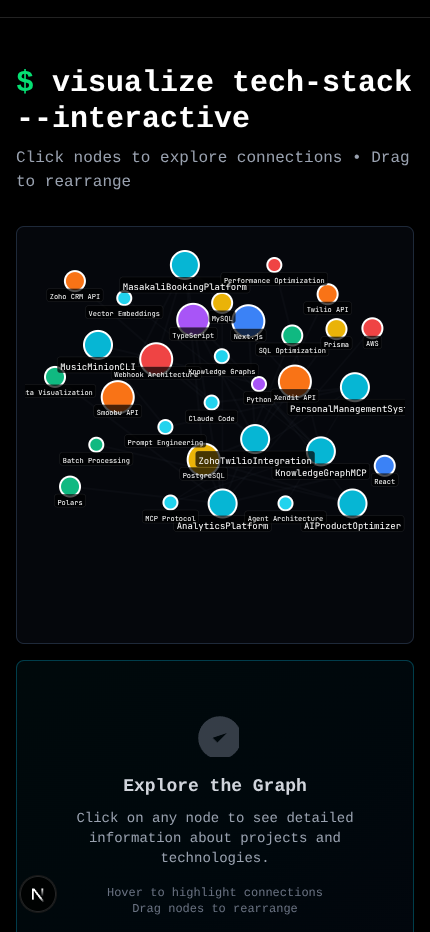
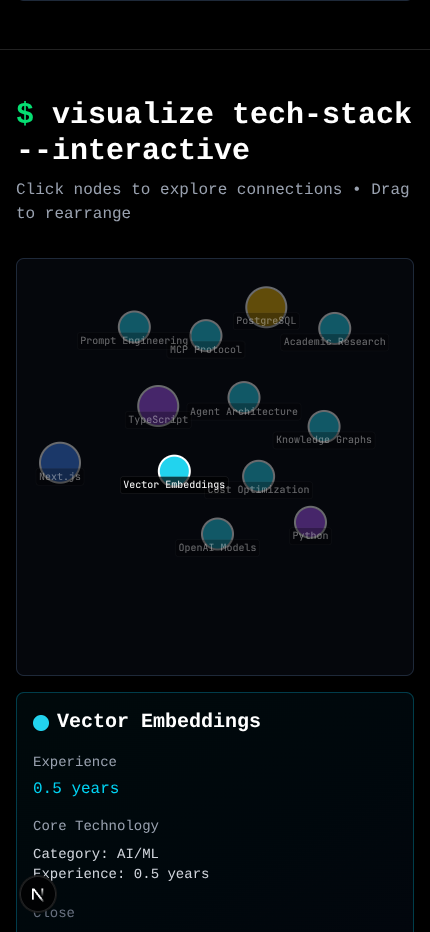
Enhance TechStackVisualization component for mobile optimization. Implement mobile-specific data handling, prioritizing key skills for hiring managers. Adjust layout and simulation parameters for improved visual clarity on smaller screens. Update core skills filter to reflect current industry trends

diff --git a/src/components/TechStackVisualization.tsx b/src/components/TechStackVisualization.tsx
@@ -14,9 +14,35 @@ const TechStackVisualization = () => {
   const [showAllSkills, setShowAllSkills] = useState(false);
 
   // Data structure - memoized to prevent useEffect re-runs
-  const nodes = useMemo(() => techStackNodes, []);
+  const allNodes = useMemo(() => techStackNodes, []);
+  const allLinks = useMemo(() => techStackLinks, []);
 
-  const links = useMemo(() => techStackLinks, []);
+  // Create mobile-optimized data (skills only, most important ones)
+  const mobileNodes = useMemo(() => {
+    const skillNodes = allNodes.filter(node => node.type === 'skill');
+
+    // Prioritize AI/ML skills and core technologies for hiring managers
+    const getSkillPriority = (skill: any) => {
+      // AI/ML skills get highest priority
+      if (skill.category === 'AI/ML') return 1000 + (skill.experience || 0);
+      // Core languages get high priority
+      if (['TypeScript', 'Python', 'JavaScript'].includes(skill.name)) return 900 + (skill.experience || 0);
+      // Modern frameworks get good priority
+      if (['React', 'Next.js', 'PostgreSQL'].includes(skill.name)) return 800 + (skill.experience || 0);
+      // Everything else by experience
+      return (skill.experience || 0) * 10;
+    };
+
+    const topSkills = skillNodes
+      .sort((a, b) => getSkillPriority(b) - getSkillPriority(a))
+      .slice(0, 12); // Show only top 12 skills
+    return topSkills;
+  }, [allNodes]);
+
+  const mobileLinks = useMemo(() => {
+    // No links on mobile for cleaner visualization
+    return [];
+  }, []);
 
   useEffect(() => {
     if (!svgRef.current) return;
@@ -26,13 +52,16 @@ const TechStackVisualization = () => {
 
     const containerWidth = svgRef.current.parentElement?.offsetWidth || 800;
     const width = Math.min(containerWidth, 800);
-    const height = Math.min(width * 0.75, 600); // Maintain aspect ratio
-
     // Detect mobile (screen width < 640px)
     const isMobile = containerWidth < 640;
+    const height = isMobile ? Math.min(containerWidth * 1.2, 500) : Math.min(width * 0.75, 600); // More height on mobile
+
+    // Use different data sets for mobile vs desktop
+    const nodes = isMobile ? mobileNodes : allNodes;
+    const links = isMobile ? mobileLinks : allLinks;
 
     const margin = isMobile
-      ? { top: 10, right: 10, bottom: 10, left: 10 }
+      ? { top: 15, right: 15, bottom: 15, left: 15 }
       : { top: 20, right: 20, bottom: 20, left: 20 };
 
     svg.attr('width', width).attr('height', height);
@@ -58,40 +87,38 @@ const TechStackVisualization = () => {
     // Initialize nodes with random positions spread across the area
     const centerX = (width - margin.left - margin.right) / 2;
     const centerY = (height - margin.top - margin.bottom) / 2;
-    // Use more space on mobile for tighter packing
-    const spreadRadius = Math.min(centerX, centerY) * (isMobile ? 0.8 : 0.6);
     
     nodes.forEach((node: any) => {
-      const angle = Math.random() * 2 * Math.PI;
-      const radius = Math.random() * spreadRadius;
-      node.x = centerX + Math.cos(angle) * radius;
-      node.y = centerY + Math.sin(angle) * radius;
+      // Use rectangular distribution instead of circular to better fill vertical space
+      const maxX = width - margin.left - margin.right - 40;
+      const maxY = height - margin.top - margin.bottom - 30;
+      node.x = margin.left + 40 + Math.random() * (maxX - 80);
+      node.y = margin.top + 30 + Math.random() * (maxY - 60);
     });
 
-    // Create simulation with stable, minimal movement
+    // Create simulation with better spreading
     const simulation = d3.forceSimulation(nodes as d3.SimulationNodeDatum[])
-      .force('link', d3.forceLink(links).id((d: any) => d.id).strength(0.1)) // Much weaker links
-      .force('charge', d3.forceManyBody().strength(isMobile ? -150 : -300)) // Less repulsion on mobile
-      .force('center', d3.forceCenter(centerX, centerY).strength(0.1)) // Stable centering
+      .force('link', links.length > 0 ? d3.forceLink(links).id((d: any) => d.id).strength(0.1) : null) // No links on mobile
+      .force('charge', d3.forceManyBody().strength(isMobile ? -200 : -800)) // Much stronger repulsion for better spreading
+      .force('x', d3.forceX(centerX).strength(0.03)) // Gentle X centering only - no Y centering to allow full vertical spread
       .force('collision', d3.forceCollide().radius((d: any) => {
-        // Smaller collision radius on mobile for tighter packing
         if (isMobile) {
-          const baseRadius = d.type === 'project' ? 25 : 18;
-          const textLength = d.name.length * 1.8;
-          return Math.max(baseRadius, textLength);
-        } else {
-          const baseRadius = d.type === 'project' ? 45 : 35;
+          // Increased collision radius on mobile to force more spreading
           const textLength = d.name.length * 2.5;
+          return Math.max(32, textLength);
+        } else {
+          const baseRadius = d.type === 'project' ? 55 : 45;
+          const textLength = d.name.length * 3;
           return Math.max(baseRadius, textLength);
         }
-      }))
+      }).strength(0.9))
       .velocityDecay(0.9) // Much slower movement for stability
       .alphaDecay(0.05) // Faster settling to prevent continuous movement
       .alphaMin(0.001) // Stop simulation sooner
       .stop(); // Don't auto-start - we'll control it
 
-    // Run simulation for initial positioning, then stop
-    for (let i = 0; i < 300; ++i) simulation.tick();
+    // Run simulation for initial positioning, then stop - more iterations to settle into full space
+    for (let i = 0; i < 500; ++i) simulation.tick();
 
     // Create links
     const link = container.append('g')
@@ -109,8 +136,8 @@ const TechStackVisualization = () => {
       .enter().append('circle')
       .attr('r', (d) => {
         if (isMobile) {
-          if (d.type === 'project') return 14;
-          return 6 + (d.experience || 1) * 2;
+          // More uniform sizing on mobile, less dramatic experience differences
+          return 15 + (d.experience || 1) * 1;
         } else {
           if (d.type === 'project') return 20;
           return 8 + (d.experience || 1) * 3;
@@ -147,7 +174,8 @@ const TechStackVisualization = () => {
       .text(d => d.name)
       .attr('font-size', (d) => {
         if (isMobile) {
-          return d.type === 'project' ? '9px' : '7px';
+          // All text same size on mobile for consistency
+          return '10px';
         } else {
           return d.type === 'project' ? '10px' : '8px';
         }
@@ -157,7 +185,8 @@ const TechStackVisualization = () => {
       .attr('text-anchor', 'middle')
       .attr('dy', (d) => {
         if (isMobile) {
-          return d.type === 'project' ? 25 : 18;
+          // Consistent spacing on mobile
+          return 17;
         } else {
           return d.type === 'project' ? 38 : 28;
         }
@@ -178,7 +207,7 @@ const TechStackVisualization = () => {
       .attr('x', (d: any) => -d.textWidth / 2 - 3)
       .attr('y', (d: any) => {
         const yOffset = isMobile
-          ? (d.type === 'project' ? 20 : 14)
+          ? 14
           : (d.type === 'project' ? 30 : 20);
         return yOffset - d.textHeight / 2 - 2;
       });
@@ -301,11 +330,14 @@ const TechStackVisualization = () => {
 
     // Update positions on simulation tick with bounds checking
     simulation.on('tick', () => {
-      // Keep nodes within bounds with extra padding for labels
+      // Keep nodes within bounds accounting for text labels that extend below nodes
       nodes.forEach((d: any) => {
-        const padding = isMobile ? 20 : 50; // Less padding on mobile
-        d.x = Math.max(padding, Math.min(width - margin.left - margin.right - padding, d.x));
-        d.y = Math.max(padding, Math.min(height - margin.top - margin.bottom - padding, d.y));
+        const horizontalPadding = isMobile ? 20 : 35; // Horizontal padding for text
+        const topPadding = isMobile ? 15 : 20; // Top padding
+        const bottomPadding = isMobile ? 25 : 35; // Extra bottom padding for text labels
+
+        d.x = Math.max(horizontalPadding, Math.min(width - margin.left - margin.right - horizontalPadding, d.x));
+        d.y = Math.max(topPadding, Math.min(height - margin.top - margin.bottom - bottomPadding, d.y));
       });
 
       link
@@ -326,7 +358,7 @@ const TechStackVisualization = () => {
         .attr('x', (d: any) => d.x - d.textWidth / 2 - 3)
         .attr('y', (d: any) => {
           const yOffset = isMobile
-            ? (d.type === 'project' ? 20 : 14)
+            ? 14
             : (d.type === 'project' ? 30 : 20);
           return d.y + yOffset - d.textHeight / 2 - 2;
         });
@@ -337,15 +369,20 @@ const TechStackVisualization = () => {
       simulation.stop();
     };
 
-  }, [selectedNode, nodes, links]);
+  }, [selectedNode, allNodes, allLinks, mobileNodes, mobileLinks]);
 
   const getNodeInfo = (nodeId: string) => {
-    const node = nodes.find(n => n.id === nodeId);
+    // Search in the appropriate dataset based on current view
+    const isMobile = (svgRef.current?.parentElement?.offsetWidth || 800) < 640;
+    const currentNodes = isMobile ? mobileNodes : allNodes;
+    const currentLinks = isMobile ? mobileLinks : allLinks;
+
+    const node = currentNodes.find(n => n.id === nodeId);
     if (!node) return null;
 
     if (node.type === 'project') {
       // Get connected skills from visualization
-      const connectedSkills = links
+      const connectedSkills = currentLinks
         .filter(link =>
           (typeof link.source === 'string' ? link.source : (link.source as Node).id) === nodeId ||
           (typeof link.target === 'string' ? link.target : (link.target as Node).id) === nodeId
@@ -354,7 +391,7 @@ const TechStackVisualization = () => {
           const targetId = (typeof link.source === 'string' ? link.source : (link.source as Node).id) === nodeId
             ? (typeof link.target === 'string' ? link.target : (link.target as Node).id)
             : (typeof link.source === 'string' ? link.source : (link.source as Node).id);
-          return nodes.find(n => n.id === targetId);
+          return currentNodes.find(n => n.id === targetId);
         })
         .filter(Boolean);
 
@@ -369,7 +406,8 @@ const TechStackVisualization = () => {
         project
       };
     } else {
-      const connectedProjects = links
+      // For skills on mobile, show no connections since we removed projects
+      const connectedProjects = isMobile ? [] : currentLinks
         .filter(link =>
           (typeof link.source === 'string' ? link.source : (link.source as Node).id) === nodeId ||
           (typeof link.target === 'string' ? link.target : (link.target as Node).id) === nodeId
@@ -378,7 +416,7 @@ const TechStackVisualization = () => {
           const targetId = (typeof link.source === 'string' ? link.source : (link.source as Node).id) === nodeId
             ? (typeof link.target === 'string' ? link.target : (link.target as Node).id)
             : (typeof link.source === 'string' ? link.source : (link.source as Node).id);
-          return nodes.find(n => n.id === targetId);
+          return currentNodes.find(n => n.id === targetId);
         })
         .filter(Boolean);
 
@@ -390,6 +428,9 @@ const TechStackVisualization = () => {
   };
 
   const selectedNodeInfo = selectedNode ? getNodeInfo(selectedNode) : null;
+
+  // Get container width for mobile detection in JSX
+  const containerWidth = svgRef.current?.parentElement?.offsetWidth || 800;
 
   return (
     <TooltipProvider>
@@ -441,7 +482,7 @@ const TechStackVisualization = () => {
                 <div className="mb-4">
                   <div className="flex items-center justify-between mb-2">
                     <div className="text-sm text-gray-400">
-                      {selectedNodeInfo.type === 'project' ? 'Technologies Used' : 'Used In Projects'}
+                      {selectedNodeInfo.type === 'project' ? 'Technologies Used' : (containerWidth < 640 ? 'Core Technology' : 'Used In Projects')}
                     </div>
                     {selectedNodeInfo.type === 'project' && (selectedNodeInfo as any).allSkills?.length > 0 && (
                       <button
@@ -484,12 +525,19 @@ const TechStackVisualization = () => {
                         ))
                       )
                     ) : (
-                      // Show connected projects for skill nodes
-                      (selectedNodeInfo as any).connectedProjects?.map((project: any) => (
-                        <div key={project.id} className="text-sm text-gray-300 font-mono">
-                          • {project.name}
+                      // Show connected projects for skill nodes (or category on mobile)
+                      containerWidth < 640 ? (
+                        <div className="text-sm text-gray-300 font-mono">
+                          Category: {selectedNodeInfo.category}<br/>
+                          Experience: {selectedNodeInfo.experience} years
                         </div>
-                      ))
+                      ) : (
+                        (selectedNodeInfo as any).connectedProjects?.map((project: any) => (
+                          <div key={project.id} className="text-sm text-gray-300 font-mono">
+                            • {project.name}
+                          </div>
+                        ))
+                      )
                     )}
                   </div>
                 </div>

diff --git a/src/lib/techStack.ts b/src/lib/techStack.ts
@@ -51,28 +51,26 @@ function calculateExperience(projectTimelines: string[]): number {
 }
 
 // Filter to most important/representative skills for cleaner visualization
+// Prioritized for hiring manager appeal, especially on mobile displays
 const coreSkillsFilter = new Set([
   // Languages - core programming languages
   'TypeScript', 'Python', 'JavaScript',
 
-  // AI/ML - your specialization
-  'GPT-4', 'OpenAI API', 'MCP Protocol', 'Knowledge Graphs', 'Prompt Engineering', 'Vector Embeddings',
-  'Claude Code', 'Agent Architecture',
+  // AI/ML - your specialization (high appeal for AI roles)
+  'OpenAI Models', 'Prompt Engineering', 'Vector Embeddings', 'Knowledge Graphs',
+  'MCP Protocol', 'Agent Architecture', 'Cost Optimization', 'Academic Research',
 
   // Frontend - main frameworks
   'React', 'Next.js', 'Tailwind CSS',
 
   // Backend - core technologies
-  'Node.js', 'PostgreSQL', 'Prisma', 'FastAPI', 'MySQL',
+  'Node.js', 'PostgreSQL', 'Prisma', 'FastAPI', 'MySQL', 'Express.js',
 
   // Data & Analytics - key tools
-  'Polars', 'SQL Optimization', 'Batch Processing', 'Data Visualization',
+  'Polars', 'SQL Optimization', 'Batch Processing', 'Data Visualization', 'Pipeline Architecture',
 
-  // APIs & Integrations - major integrations
-  'Twilio API', 'Smoobu API', 'Zoho CRM API', 'Xendit API',
-
-  // Infrastructure - deployment platforms
-  'AWS', 'Vercel', 'Webhook Architecture', 'Performance Optimization'
+  // Infrastructure - deployment and performance
+  'AWS', 'Vercel', 'Performance Optimization', 'Multi-tenant Architecture'
 ]);
 
 // Generate nodes dynamically from projects data
